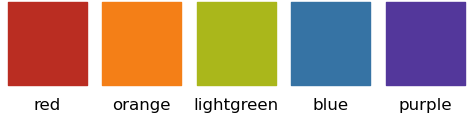
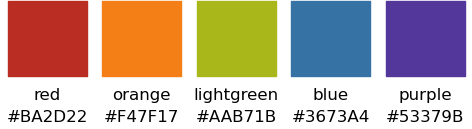
[colors] added hex to color demo figures

diff --git a/docs/figures/colors.py b/docs/figures/colors.py
@@ -12,7 +12,7 @@ def colors_figures():
     """ Generate figures displaying the color palettes.
     """
     for key, colors in color_palettes.items():
-        fig, ax = plt.subplots(cmsize=(1+2.2*len(colors), 3))
+        fig, ax = plt.subplots(cmsize=(1+2.2*len(colors), 3.3))
         fig.subplots_adjust(leftm=0, rightm=0, topm=0, bottomm=0)
         ax.show_spines('')
         rectx = np.array([0.0, 1.0, 1.0, 0.0, 0.0])
@@ -20,8 +20,9 @@ def colors_figures():
         for k, c in enumerate(colors):
             ax.fill(rectx + 1.2*k, recty, color=colors[c])
             ax.text(0.5 + 1.2*k, -0.3, c, ha='center')
+            ax.text(0.5 + 1.2*k, -0.6, colors[c], ha='center')
         ax.set_xlim(-0.1, len(colors)*1.2 - 0.1)
-        ax.set_ylim(-0.4, 1.02)
+        ax.set_ylim(-0.7, 1.02)
         fig.savefig('colors-' + key + '.png')
 
     
